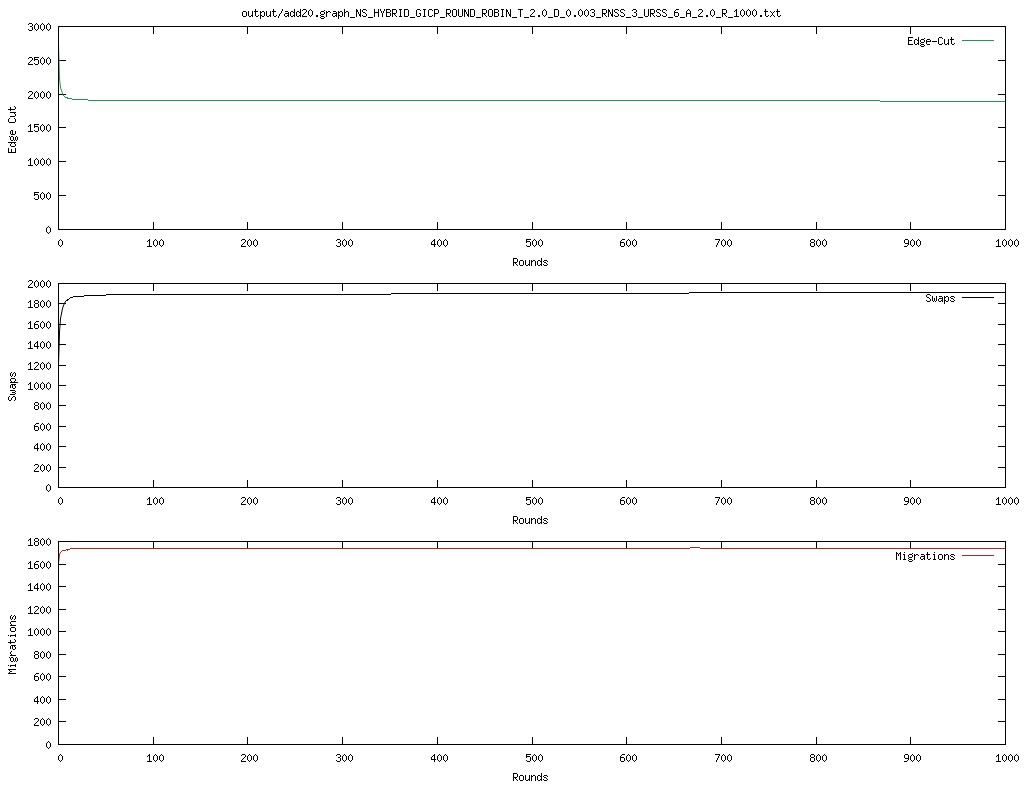
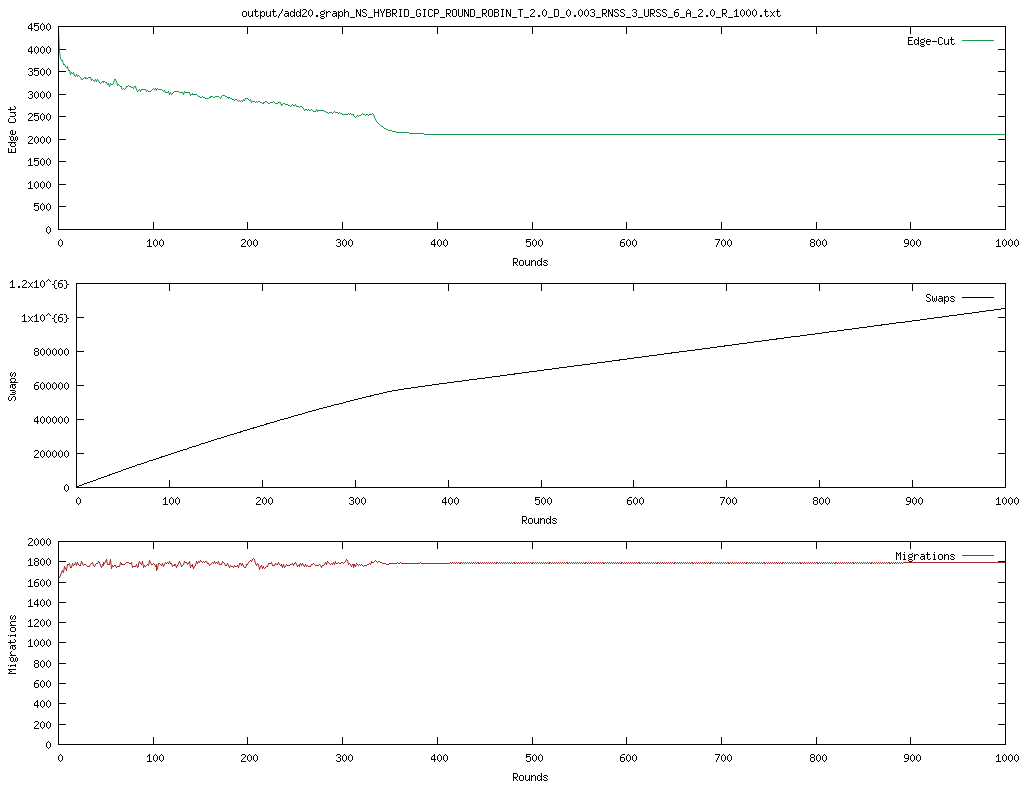
reset temperature

diff --git a/src/main/java/se/kth/jabeja/Jabeja.java b/src/main/java/se/kth/jabeja/Jabeja.java
@@ -19,6 +19,7 @@ public class Jabeja {
   private int round;
   private float T;
   private boolean resultFileCreated = false;
+  private boolean isRestartTemp;
 
   //-------------------------------------------------------------------
   public Jabeja(HashMap<Integer, Node> graph, Config config) {
@@ -28,11 +29,13 @@ public class Jabeja {
     this.numberOfSwaps = 0;
     this.config = config;
     this.T = config.getTemperature();
+    this.isRestartTemp = config.getRestartTemp();
   }
 
 
   //-------------------------------------------------------------------
   public void startJabeja() throws IOException {
+    int stagnation = 0;
     for (round = 0; round < config.getRounds(); round++) {
       for (int id : entireGraph.keySet()) {
         sampleAndSwap(id);
@@ -40,7 +43,10 @@ public class Jabeja {
 
       //one cycle for all nodes have completed.
       //reduce the temperature
-      saCoolDown();
+      if (T==1) {
+        stagnation++;
+      }
+      saCoolDown(stagnation);
       report();
     }
   }
@@ -48,12 +54,14 @@ public class Jabeja {
   /**
    * Simulated analealing cooling function
    */
-  private void saCoolDown(){
-    // TODO for second task
+  private void saCoolDown(int stagnation) {
     if (T > 1)
       T -= config.getDelta();
     if (T < 1)
       T = 1;
+    if(T==1 && isRestartTemp && stagnation >=100){
+      T = config.getTemperature();
+    }
   }
 
   /**
@@ -85,8 +93,6 @@ public class Jabeja {
         partner.setColor(temp);
         numberOfSwaps++;
     }
-
-    saCoolDown();
   }
 
   public Node findPartner(int nodeId, Integer[] nodes){

diff --git a/src/main/java/se/kth/jabeja/io/CLI.java b/src/main/java/se/kth/jabeja/io/CLI.java
@@ -40,6 +40,9 @@ public class CLI {
   @Option(name = "-alpha", usage = "Alpah parameter")
   private float ALPHA = 2;
 
+  @Option(name = "-restartTemp", usage = "Restart temperature.")
+  private boolean RESTART_TEMP = false;
+
   @Option(name = "-randNeighborsSampleSize", usage = "Number of random neighbors sample size.")
   private int randNeighborsSampleSize = 3;
 
@@ -110,6 +113,7 @@ public class CLI {
             .setNodeSelectionPolicy(nodeSelectionPolicy)
             .setGraphInitialColorPolicy(graphInitColorSelectionPolicy)
             .setOutputDir(OUTPUT_DIR)
-            .setAlpha(ALPHA);
+            .setAlpha(ALPHA)
+            .setRestartTemp(RESTART_TEMP);
   }
 }

diff --git a/src/main/java/se/kth/jabeja/config/Config.java b/src/main/java/se/kth/jabeja/config/Config.java
@@ -13,6 +13,7 @@ public class Config {
   private GraphInitColorPolicy initColorPolicy;
   private NodeSelectionPolicy nodeSelectionPolicy;
   private Float alpha;
+  private Boolean restartTemp;
 
   public Config setAlpha(Float alpha) {
     this.alpha = alpha;
@@ -158,7 +159,16 @@ public class Config {
     return alpha;
   }
 
-  public Config createJabejaConfig() {
+  public Config setRestartTemp(Boolean restartTemp) {
+    this.restartTemp = restartTemp;
+    return this;
+  }
+
+  public Boolean getRestartTemp() {
+    return restartTemp;
+  }
+
+    public Config createJabejaConfig() {
     return new Config();
   }
 
